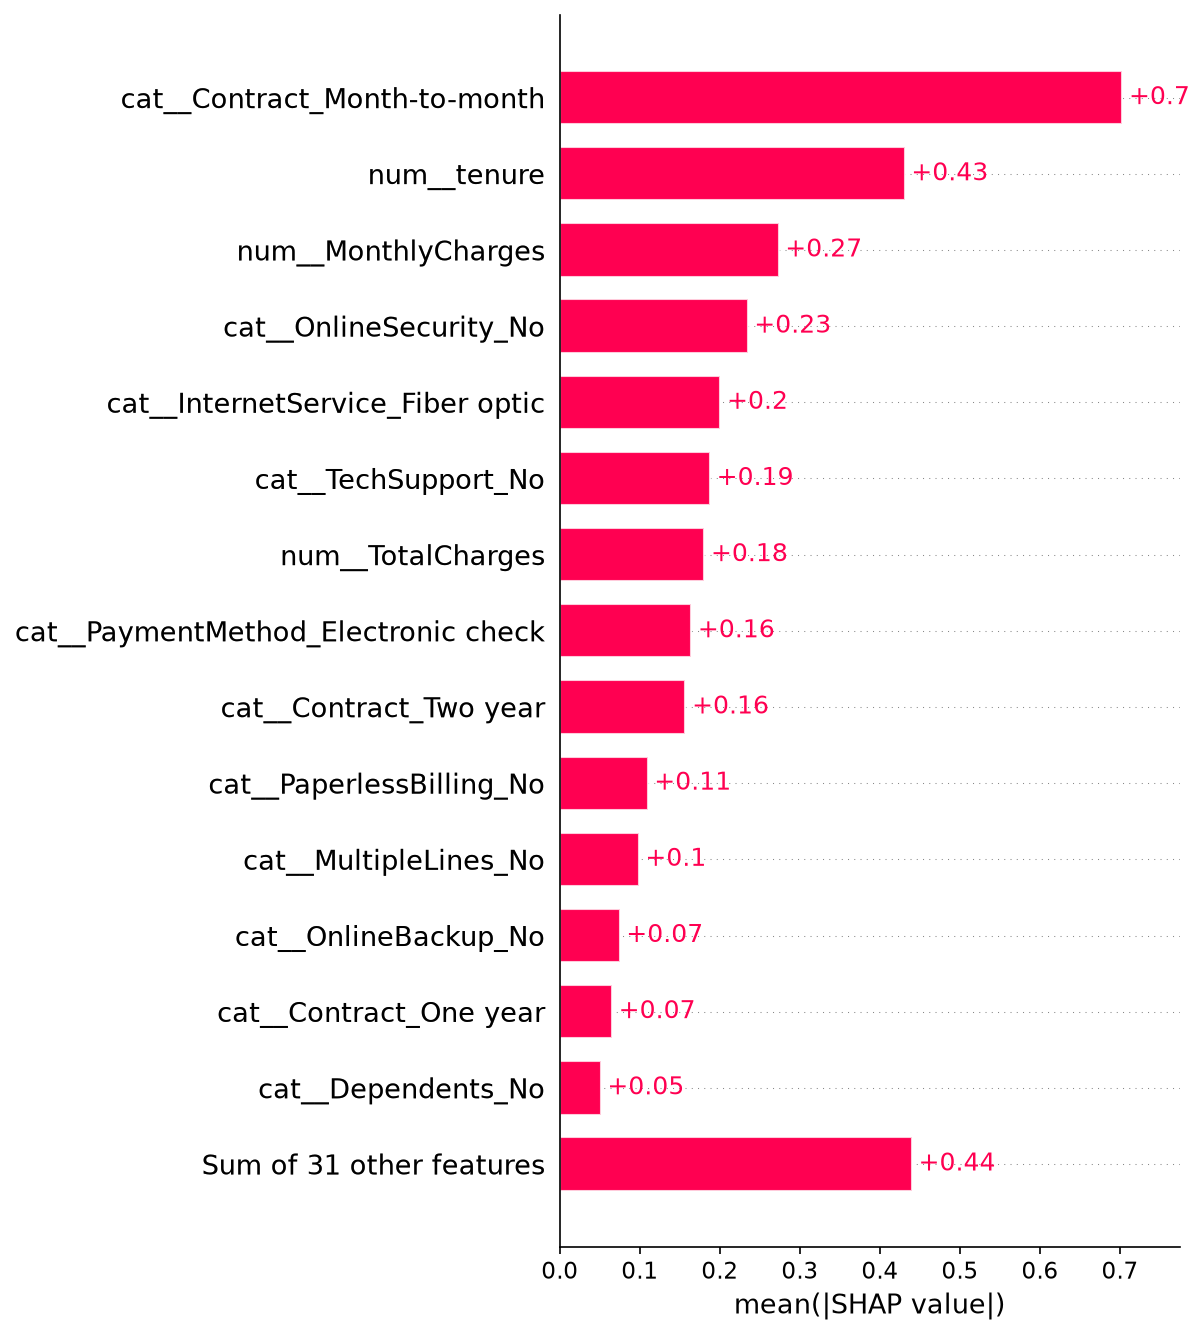
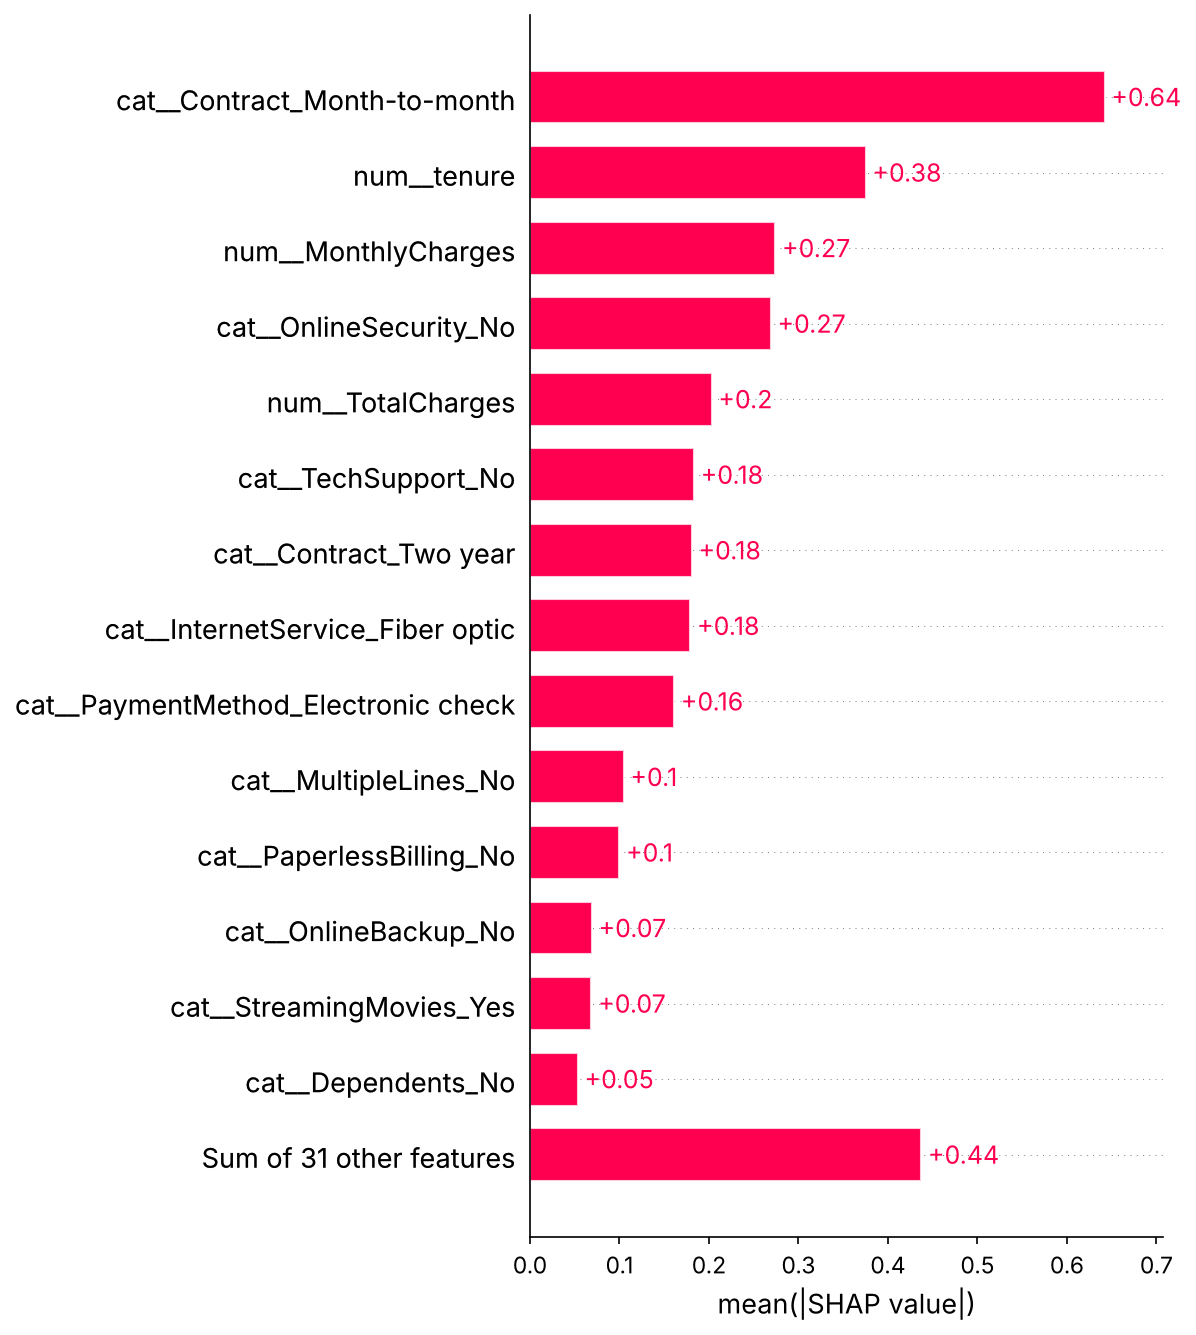
Add README with setup/run instructions; refresh SHAP plots

diff --git a/README.md b/README.md
@@ -1,0 +1,91 @@
+# DataDrift-Shield
+
+A self-healing machine learning system for customer churn prediction. It trains a
+baseline model, detects when incoming data has drifted away from the training
+data, explains *why* using SHAP, and uses Google's Gemini API to turn that
+evidence into a plain-language diagnostic report. It then decides whether the
+model should be retrained and automatically replaces the production model only
+if the retrained version is actually better.
+
+Dataset: [IBM Telco Customer Churn](https://www.kaggle.com/datasets/blastchar/telco-customer-churn) (7,043 customers, 21 columns).
+
+## Pipeline
+
+```
+train_baseline.py  -->  detect_drift.py  -->  explain_model.py  -->  generate_report.py  -->  retrain_validate.py
+   (Module 1)           (Module 2)            (Module 3)             (Module 4)               (Module 5)
+```
+
+| Module | Script | What it does | Status |
+|---|---|---|---|
+| 1. Baseline model | `src/train_baseline.py` | Trains an XGBoost classifier on the Telco churn dataset. | Done |
+| 2. Drift detection | `src/detect_drift.py` | Runs a Kolmogorov–Smirnov test comparing a reference batch against an incoming batch; includes a controlled experiment (MonthlyCharges shifted +20%). | Done |
+| 3. Explainability | `src/explain_model.py` | Computes SHAP values and saves feature-importance and summary plots. | Done |
+| 4. GenAI reporting | `src/generate_report.py` | Sends the drift + SHAP evidence to Gemini, which writes a plain-language diagnostic report. | Done |
+| 5. Retraining & validation | `src/retrain_validate.py` | Retrains a "challenger" model on newer data and only promotes it if it beats the current "champion" on the same test set. | Done |
+| 6. Monitoring dashboard | `app.py` (Streamlit) | Shows drift status, SHAP plots, the Gemini report, and model version history in one dashboard. | Done |
+
+## Results (baseline)
+
+- Accuracy: **80.5%**
+- ROC-AUC: **84.5%**
+
+## Project structure
+
+```
+DataDrift-Shield/
+├── README.md
+├── requirements.txt
+├── .gitignore
+├── app.py                     # Streamlit dashboard (Module 6)
+├── data/
+│   └── Telco-Customer-Churn.csv   # not committed (see .gitignore); see Setup
+├── src/
+│   ├── train_baseline.py      # Module 1
+│   ├── detect_drift.py        # Module 2
+│   ├── explain_model.py       # Module 3
+│   ├── generate_report.py     # Module 4
+│   └── retrain_validate.py    # Module 5
+├── tests/
+│   └── test_drift_and_model.py
+├── docs/
+│   └── design.md              # architecture + requirements mapping
+├── reports/                   # SHAP plots + Gemini diagnostic report (generated)
+├── models/                    # saved model files (generated, not committed)
+└── outputs/                   # retraining/validation logs (generated)
+```
+
+## Setup
+
+```bash
+pip install -r requirements.txt
+```
+
+Place `Telco-Customer-Churn.csv` in `data/` (not committed to keep the repo light).
+For the GenAI report, create a `.env` file in the project root with:
+
+```
+GEMINI_API_KEY=your_key_here
+```
+
+## Running it
+
+```bash
+python src/train_baseline.py        # trains and saves the baseline model
+python src/detect_drift.py          # runs the KS-test drift experiment
+python src/explain_model.py         # SHAP plots -> reports/
+python src/generate_report.py       # Gemini diagnostic report -> reports/
+python src/retrain_validate.py      # retrain, validate, and promote if better
+streamlit run app.py                # monitoring dashboard
+```
+
+## Tests
+
+```bash
+pytest tests/
+```
+
+## Requirements document
+
+Full functional/non-functional requirements and the module/sprint plan: see
+`docs/requirements.md` (also submitted separately as a Word document to the guide).
